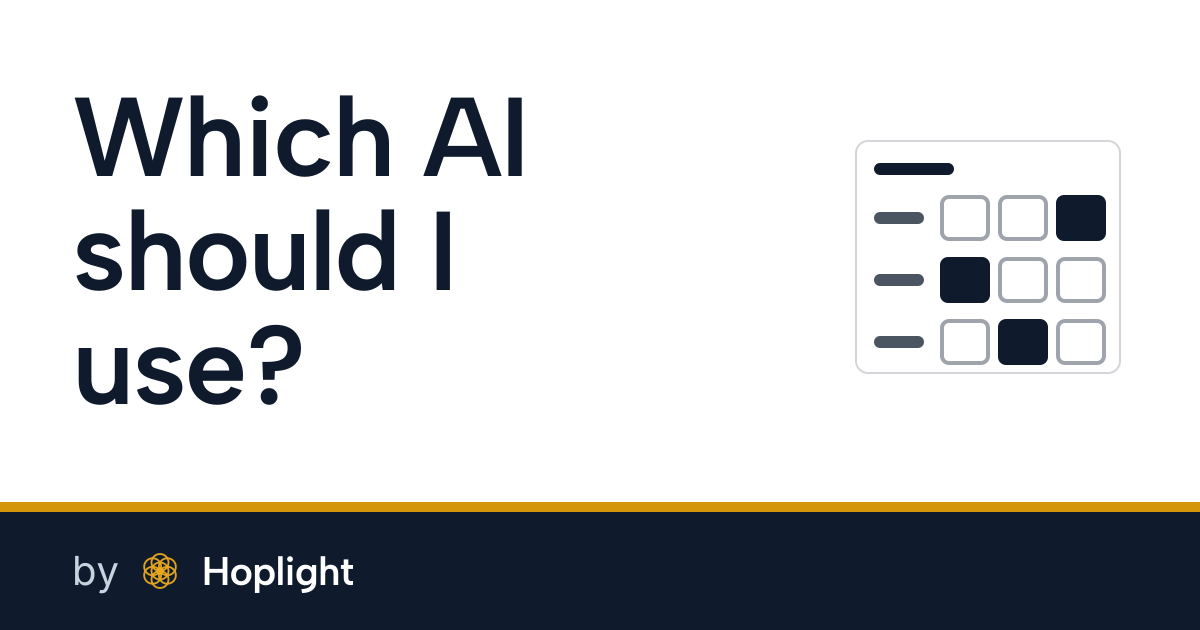
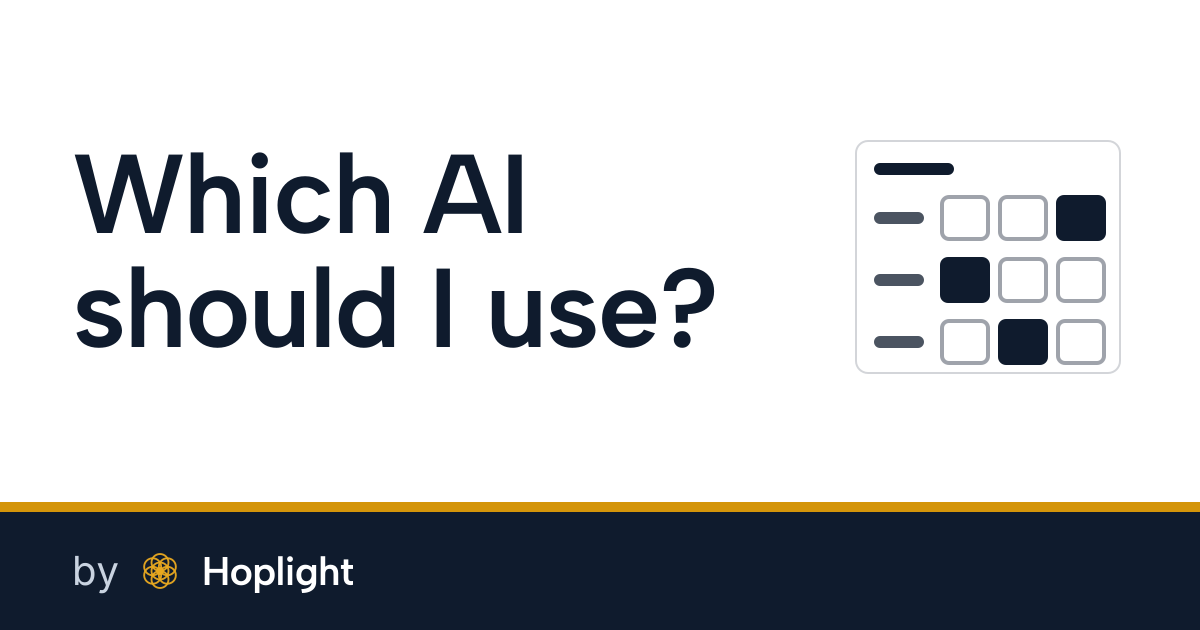
hoplight-site: the third review's card fixes; Oregon and GE draw a 240 picture so their names hold two lines (Oregon at 100px), Which AI breaks as "Which AI" / "should I use?", and the portfolio render is re-shot on a launch-day build so row 1 is Revenge or Justice, The Undo List and Gut Check (Whit
The other eleven cards are pixel-identical to the last export (counted with a PIL difference over all 14).
The earlier portfolio render left the launch-day row out because the page is prerendered at build time
and that build ran without PORTFOLIO_NOW; this one was built and served with it.

npm test 152 of 152; npm run build exits 0.

Changed region(s): [[0.0617, 0.1508, 0.6167, 0.6635]]

diff --git a/src/data/tools.ts b/src/data/tools.ts
@@ -39,6 +39,13 @@ export interface ToolBrand {
    */
   wordmark: { text: string; accent?: boolean; mark?: string }[];
   glyph: ToolGlyph;
+  /**
+   * Two cards whose names run long (Oregon, GE) draw a smaller picture (240) so the name holds two lines;
+   * Oregon's heavy face also sets its name at 100px. Every other card stays at 280 and 112px (third
+   * visual review, 2026-11-07).
+   */
+  pic?: number;
+  namePx?: number;
 }
 
 export interface Tool {
@@ -261,7 +268,9 @@ export const TOOLS: Tool[] = [
       accent: '#B42318',
       ink: '#111111',
       display: { family: 'Archivo', weight: 900 },
-      wordmark: [{ text: 'Oregon' }, { text: 'school' }, { text: 'budget' }, { text: 'report' }],
+      wordmark: [{ text: 'Oregon school' }, { text: 'budget report' }],
+      pic: 240,
+      namePx: 100,
       glyph: 'years',
     },
     releaseAt: GALLERY_AS_OF,
@@ -297,7 +306,7 @@ export const TOOLS: Tool[] = [
       accent: GOLD_DEEP,
       ink: NAVY,
       display: { family: 'Albert Sans', weight: 600 },
-      wordmark: [{ text: 'Which AI' }, { text: 'should I' }, { text: 'use?' }],
+      wordmark: [{ text: 'Which AI' }, { text: 'should I use?' }],
       glyph: 'picker',
     },
     releaseAt: GALLERY_AS_OF,
@@ -315,7 +324,8 @@ export const TOOLS: Tool[] = [
       accent: '#2E7D32',
       ink: '#1F2A44',
       display: { family: 'Inter', weight: 700 },
-      wordmark: [{ text: 'Worker' }, { text: 'equity' }, { text: 'dilution' }, { text: 'at GE' }],
+      wordmark: [{ text: 'Worker equity' }, { text: 'dilution at GE' }],
+      pic: 240,
       glyph: 'area',
     },
     releaseAt: GALLERY_AS_OF,

diff --git a/src/lib/brand/tool-card.ts b/src/lib/brand/tool-card.ts
@@ -70,7 +70,7 @@ function nameBlock(b: ToolBrand, fonts: CardFonts, maxWidth: number): ReactEleme
         maxWidth: `${maxWidth}px`,
         fontFamily: fonts.display ?? 'sans-serif',
         fontWeight: b.display.weight,
-        fontSize: `${NAME_PX}px`,
+        fontSize: `${b.namePx ?? NAME_PX}px`,
         lineHeight: LINE_H,
         letterSpacing: '-0.02em',
       },
@@ -138,7 +138,9 @@ export function toolCard(tool: CardSubject, fonts: CardFonts, opts: { band?: boo
   const b = tool.brand;
   const band = opts.band !== false;
   const svg = tool.library ? null : pictureSvg(b);
-  const size = pictureSize(b);
+  const size = b.pic ? { w: b.pic, h: b.pic } : pictureSize(b);
+  // A smaller picture sits a little closer to its name, so a two-line long name keeps its lines.
+  const gap = b.pic ? 32 : GAP;
   const fieldH = band ? CARD_H - BAND_H - RULE_H : CARD_H;
   const inner = CARD_W - PAD * 2;
 
@@ -154,7 +156,7 @@ export function toolCard(tool: CardSubject, fonts: CardFonts, opts: { band?: boo
     field = h(
       'div',
       { style: { display: 'flex', alignItems: 'center', justifyContent: 'space-between', width: `${CARD_W}px`, height: `${fieldH}px`, padding: `0 ${PAD}px`, backgroundColor: b.ground } },
-      nameBlock(b, fonts, svg ? inner - size.w - GAP : inner),
+      nameBlock(b, fonts, svg ? inner - size.w - gap : inner),
       svg ? picture(svg, size.w, size.h) : null,
     );
   }
